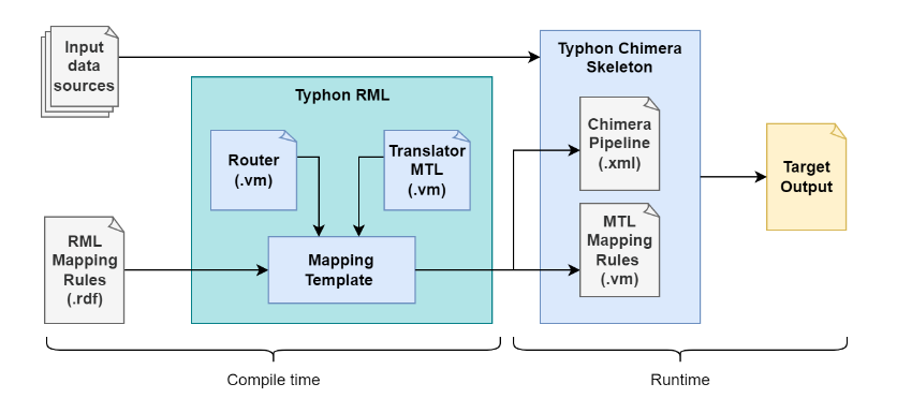
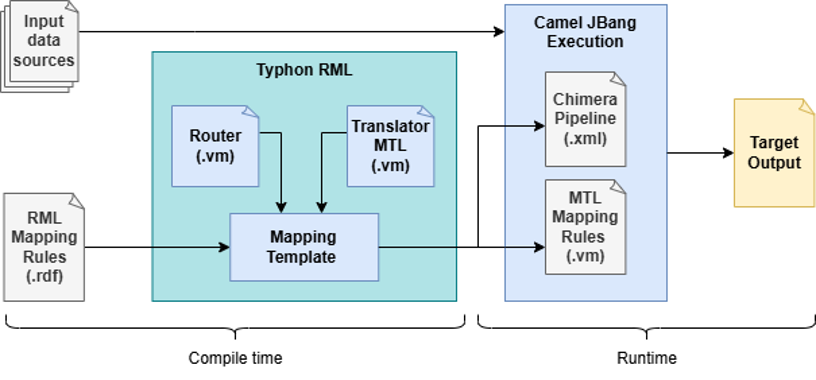
update docs

diff --git a/README.md b/README.md
@@ -13,7 +13,7 @@ At **compile-time**, the input RML mappings are transformed into:
   - A set of template-based mapping rules (`template.vm`) defined using [MTL](https://github.com/cefriel/mapping-template).
 These artifacts are modifiable before execution to support different data integration scenarios or optimizations.
 
-At **runtime**, the generated pipeline and mappings are executed using the `typhon-chimera-skeleton` component, yielding an output equivalent to the RML's declarative intent.
+At **runtime**, the generated pipeline and mappings can be executed using [`JBang`](https://www.jbang.dev/), yielding an output equivalent to the RML's declarative intent.
 
 How it works:
 
@@ -25,7 +25,7 @@ How it works:
    - Modify `route.xml` to use custom data sources via different Apache Camel components.
    - Adjust `template.vm` for performance tuning (e.g., optimized joins).
 4. **Execution**:
-   - Use `typhon-chimera-skeleton` to run the KG construction pipeline and produce the final output.
+   - Use `JBang` to run the KG construction pipeline and produce the final output.
 
 ### Use Typhon-RML
 
@@ -37,10 +37,10 @@ This will generate the following files:
 - `route.xml`
 - `template.vm`
 
-Use the [typhon-chimera-skeleton](https://github.com/cefriel/typhon-chimera-skeleton) to execute the generated pipeline. The typhon-chimera-skeleton expects the `route.xml` and `template.vm` files to be placed in a `data` directory where the following command will be run:
+You can use JBang or a properly initialized Camel project (including Chimera as a dependency) to execute the generated pipeline. The `route.xml` path should be given as argument and `template.vm` file should be placed in a `data` directory (alternatively, the location of the template file should be modified in the `route.xml`). The latest version of `camel-chimera-mapping-template:x.y.z` can be found on [Maven Central](https://central.sonatype.com/artifact/com.cefriel/camel-chimera-mapping-template).
 
 ```bash
-java -jar target/chimera-typhon-skeleton.jar
+jbang camel@apache/camel run --dep=mvn:com.cefriel:camel-chimera-mapping-template:x.y.z route.xml'
 ```
 
 Customizations can be introduced for:
@@ -61,9 +61,15 @@ Customizations can be introduced for:
 
 If you need commercial support for this repository, contact us at [chimera-dev@cefriel.com](mailto:chimera-dev@cefriel.com).
 
+### Contributing
+
+Before contributing, please read carefully, complete and sign our [Contributor Licence Agreement](https://github.com/cefriel/contributing/blob/main/contributor-license-agreement.pdf). 
+
+When contributing to this repository, please first discuss the change you wish to make via issue or any other available method with the repository's owners.
+
 ### License
 
-_Copyright (c) 2025 Cefriel._
+_Copyright (c) Cefriel._
 
 Licensed under the Apache License, Version 2.0 (the "License");
 you may not use this file except in compliance with the License.
